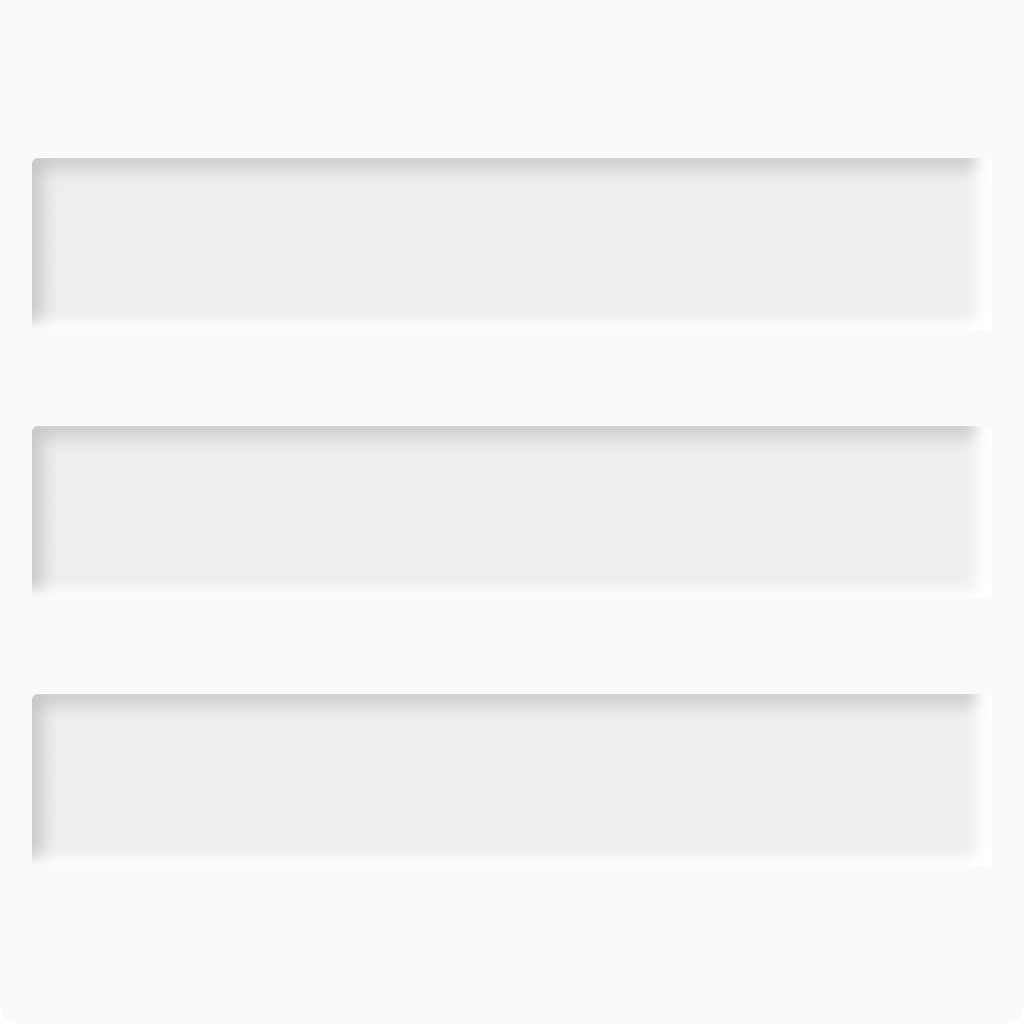
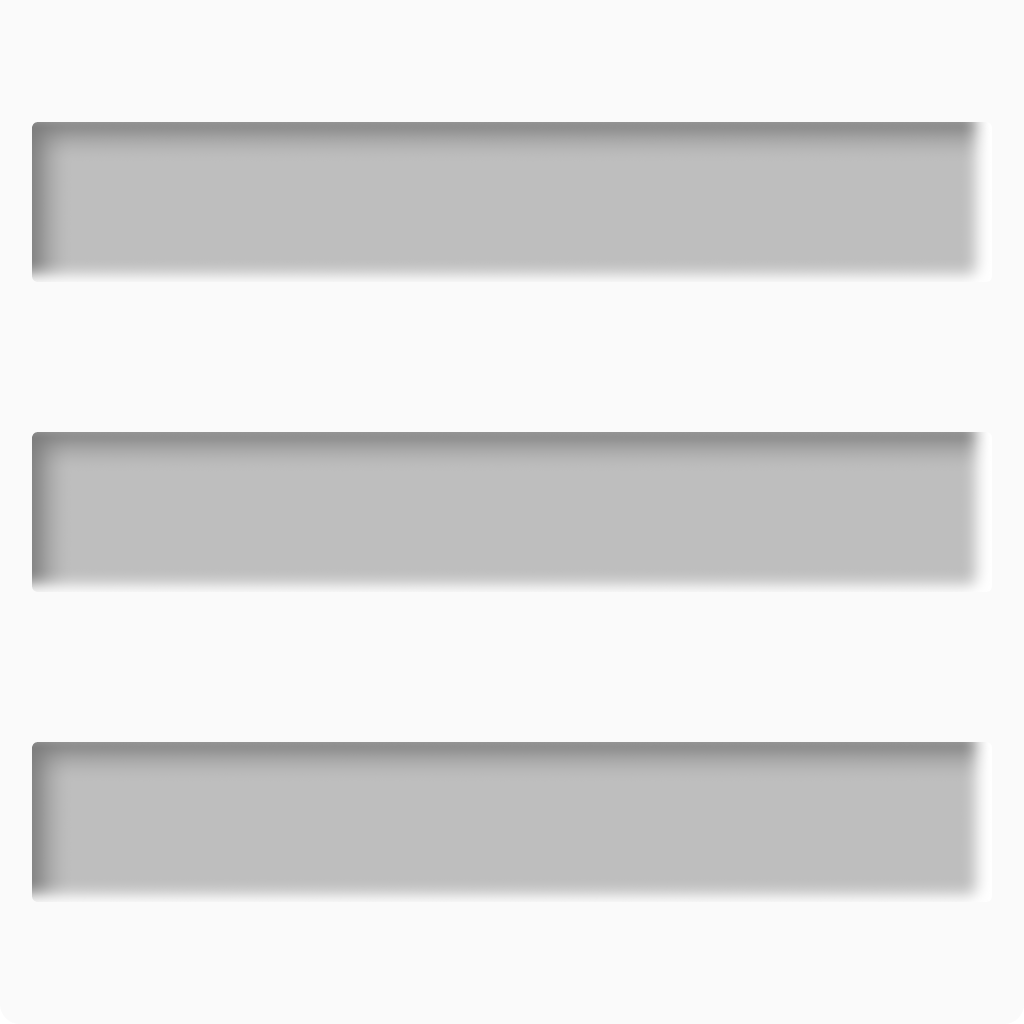
Aggiunto icona dinamica su navbar da mobile

diff --git a/assets/js/script.js b/assets/js/script.js
@@ -6,4 +6,33 @@ function toggleMenu() {
     } else {
         navUl.classList.add("open");
     }
+    replaceIcon("burgermenu-button");
 }
+
+function replaceIcon(iconId) {
+    root = "/tecwebz25"
+    firstIcon = "/assets/images/burgermenu.webp";
+    secondIcon = "/assets/images/closeburgermenu.webp";
+    currentIcon = extractImagePath(document.getElementById(iconId).src);
+
+    if (currentIcon == firstIcon) {
+        document.getElementById(iconId).src = root+secondIcon;
+    } else {
+        document.getElementById(iconId).src = root+firstIcon;
+    }
+}
+
+function extractImagePath(urlString) {
+    try {
+      const url = new URL(urlString);
+      const parts = url.pathname.split('/').filter(part => part !== '');
+
+      const startIndex = parts.findIndex((part, i) => part === 'assets' && parts[i + 1] === 'images');
+      if (startIndex === -1) throw new Error('"/assets/images/" not found in URL');
+
+      return `/${parts.slice(startIndex).join('/')}`;
+    } catch (e) {
+      console.error('Error:', e.message);
+      return null;
+    }
+  }

diff --git a/assets/css/style.css b/assets/css/style.css
@@ -270,8 +270,9 @@ nav ul li a:hover {
 }
 
 /* Burger Menu Button Styling */
-.burgermenu-button {
-    height: 3em;
+#burgermenu-button {
+    height: 2.5em;
+    padding-top: 0.2em;
     display: none;
 }
 
@@ -551,7 +552,7 @@ input, textarea {
         display: block;
     }
 
-    .burgermenu-button {
+    #burgermenu-button {
         display: block;
     }
 }

diff --git a/views/includes/menu.php b/views/includes/menu.php
@@ -17,7 +17,7 @@ $loggedIn = isset($_SESSION['user']); // Controlla se l'utente è loggato
 <nav>
     <div class="navhead">
         <a href="<?= $link ?>"><img src="assets/images/logo.webp" class="main-logo"/></a>
-        <a onclick="toggleMenu();"><img src="assets/images/burgermenu.webp" class="burgermenu-button"/></a>
+        <a onclick="toggleMenu();"><img src="assets/images/burgermenu.webp" id="burgermenu-button" alt="Apri menu"/></a>
     </div>
     <ul>
         <?php foreach ($menu_items as $name => $link): ?>
@@ -37,6 +37,6 @@ $loggedIn = isset($_SESSION['user']); // Controlla se l'utente è loggato
     <?php if ($loggedIn): ?>
         <a href="logout.php">Logout</a>
     <?php else: ?>
-        <a href="index.php?page=auth"><img src="assets/images/account.webp" class="icon-account-button"/></a>
+        <a href="index.php?page=auth"><img src="assets/images/account.webp" class="icon-account-button" alt="Profilo"/></a>
     <?php endif; ?>
 </nav>
